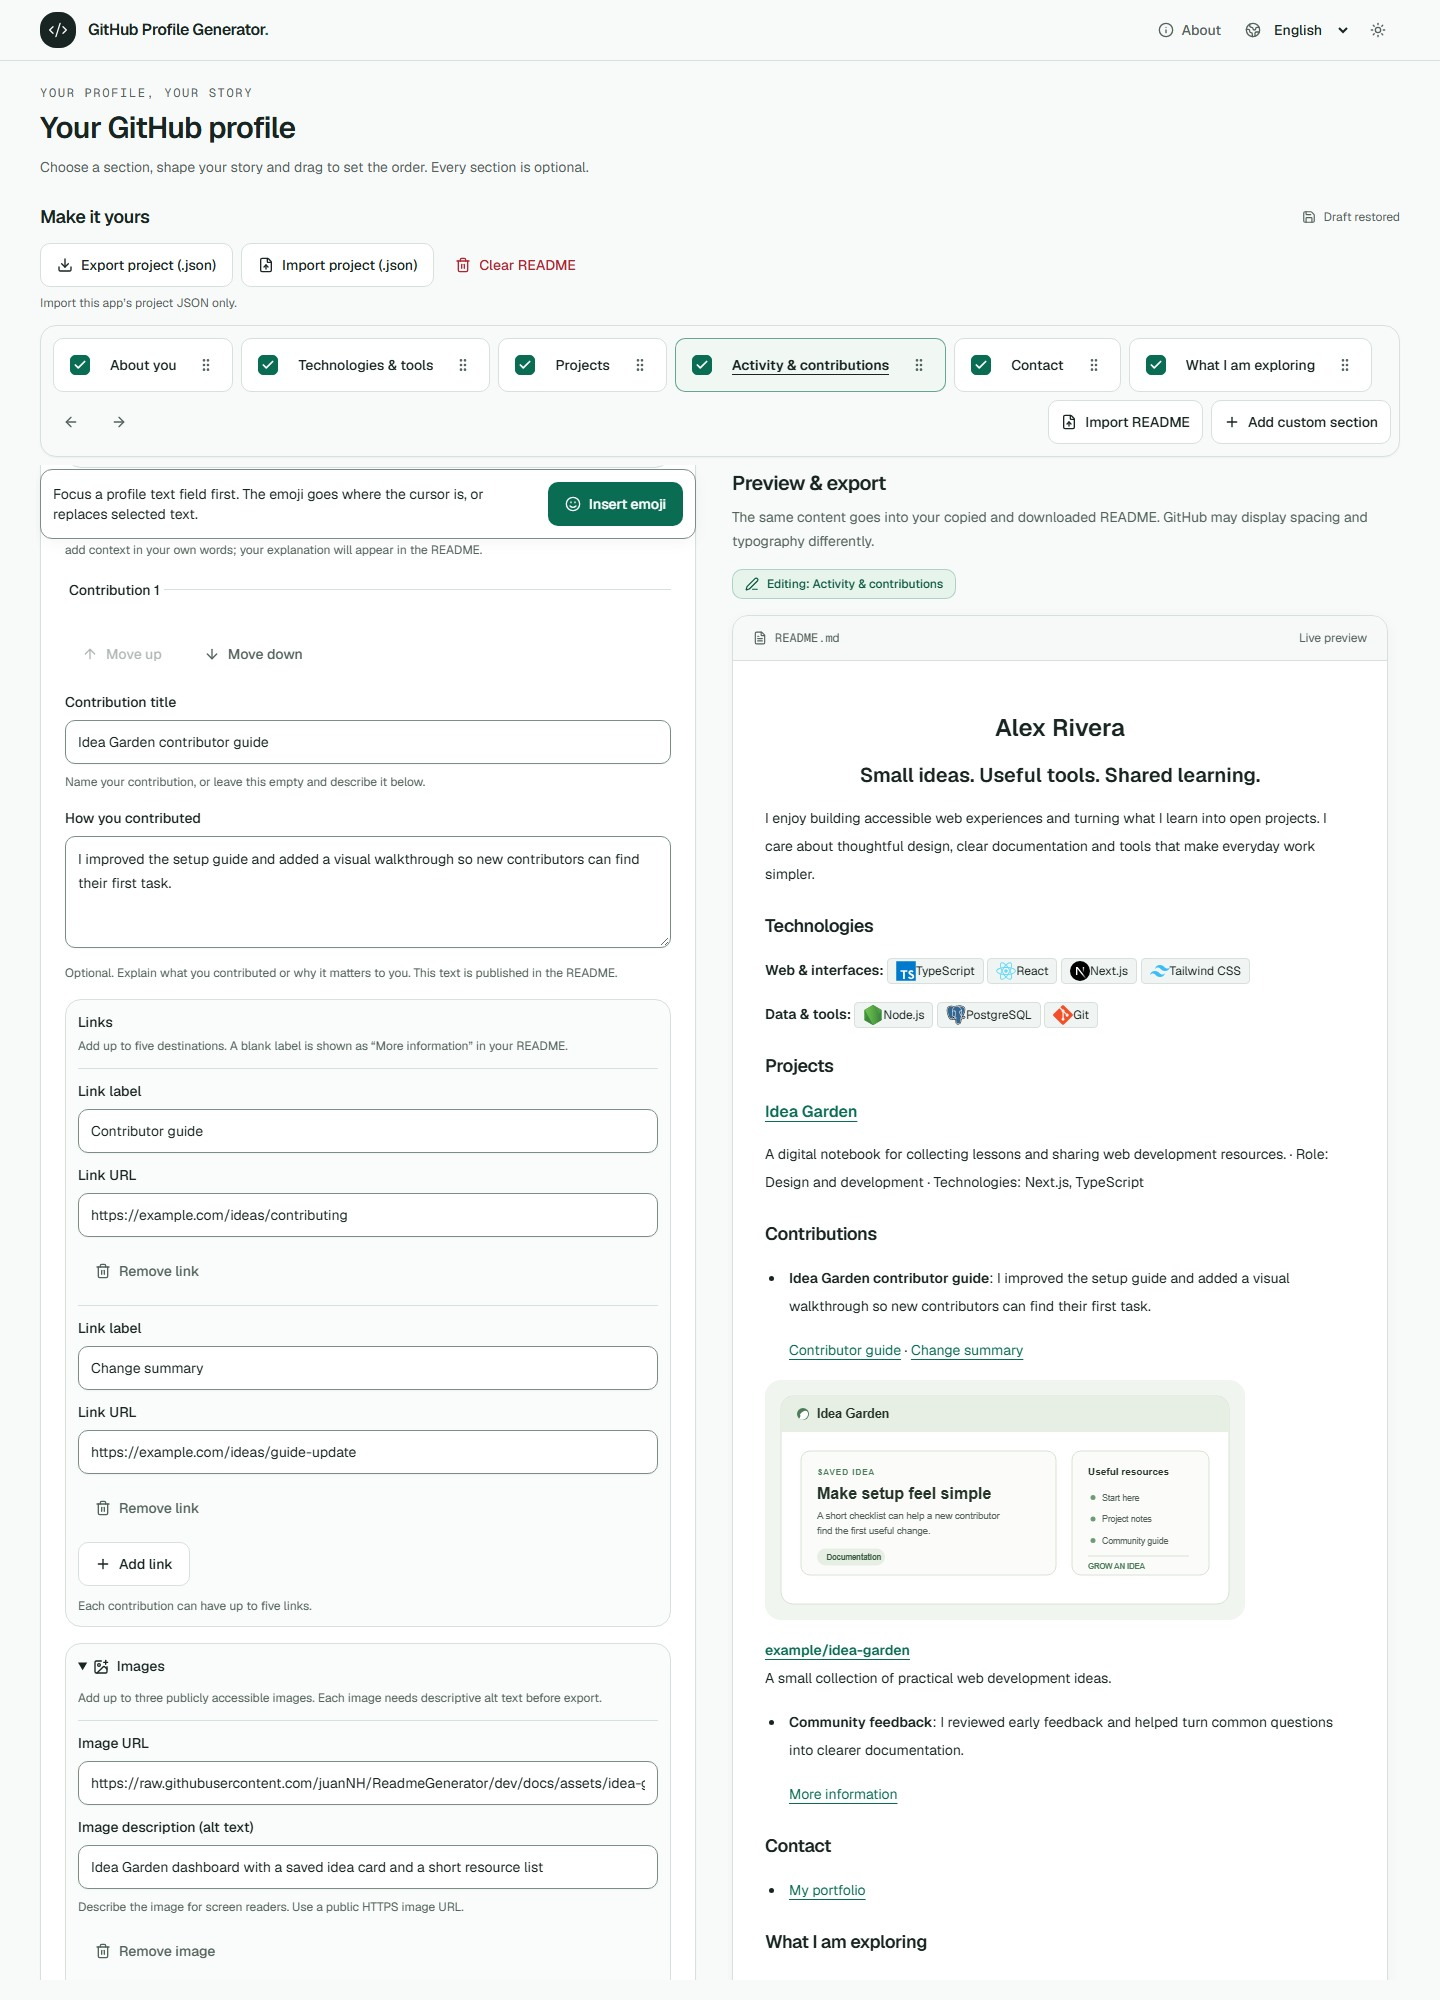
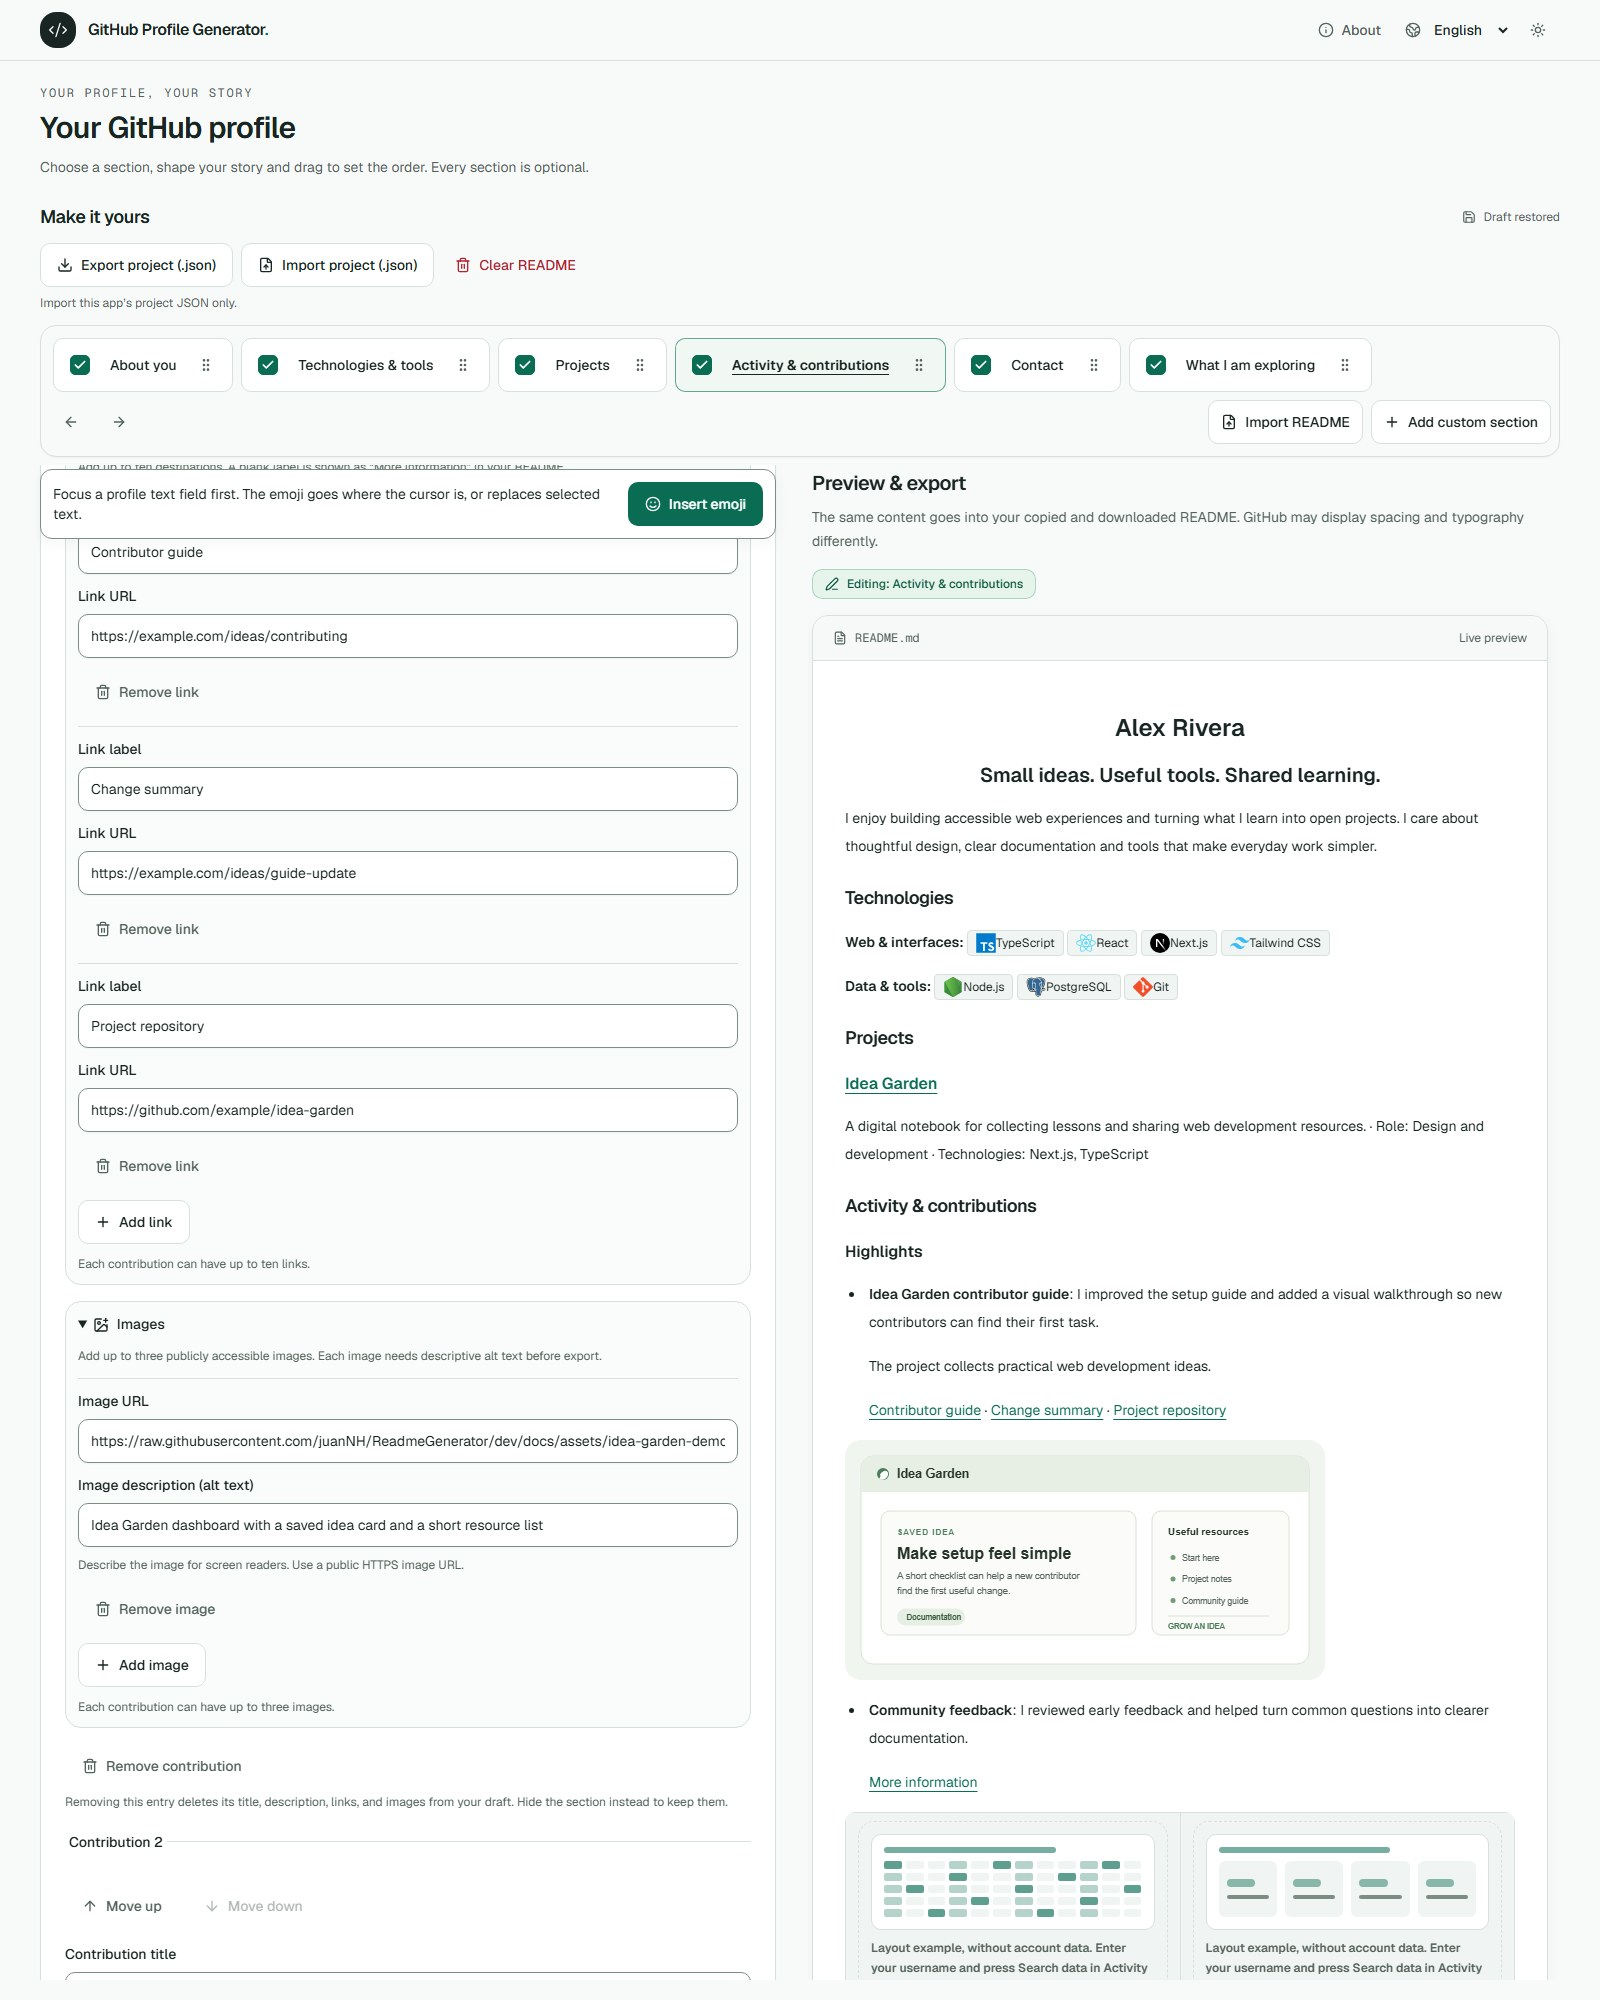
docs: refresh activity screenshots and demo project

diff --git a/docs/assets/README.md b/docs/assets/README.md
@@ -2,13 +2,15 @@
 
 These assets show the current GitHub Profile Generator interface. They were captured in English on October 23, 2026, using the light theme and fictional data from the [demo project](../examples/demo-profile.project.json). They contain no credentials, real account data or activity queries. Activity card examples use local decorative samples when shown.
 
-| Asset                                                    | Content                                                                         |
-| -------------------------------------------------------- | ------------------------------------------------------------------------------- |
-| [editor-overview.jpg](editor-overview.jpg)               | Technology order controls and aligned compact tags in the live README preview.  |
-| [activity-contributions.jpg](activity-contributions.jpg) | Contribution editing, ordinary links, and a public image in the README preview. |
-| [activity-card-layout.jpg](activity-card-layout.jpg)     | One/two card row choices and their live GFM table layout using local samples.   |
-| [project-files.jpg](project-files.jpg)                   | The current project JSON import dialog and its local review safeguards.         |
-| [readme-import-review.jpg](readme-import-review.jpg)     | Detected Markdown sections and conversion notices before confirming an import.  |
+The activity layout captures use the fictional `example-dev` label and local decorative cards. They do not search GitHub or load account data.
+
+| Asset                                                    | Content                                                                                     |
+| -------------------------------------------------------- | ------------------------------------------------------------------------------------------- |
+| [editor-overview.jpg](editor-overview.jpg)               | Technology order controls and aligned compact tags in the live README preview.              |
+| [activity-contributions.jpg](activity-contributions.jpg) | Contribution editing with multiple ordinary links and a public image in the README preview. |
+| [activity-card-layout.jpg](activity-card-layout.jpg)     | Activity/contribution order, one/two card row choices, and local layout samples.            |
+| [project-files.jpg](project-files.jpg)                   | The current project JSON import dialog and its local review safeguards.                     |
+| [readme-import-review.jpg](readme-import-review.jpg)     | Detected Markdown sections and conversion notices before confirming an import.              |
 
 The main README uses static screenshots and written instructions so the product flow stays available without animation.
 
